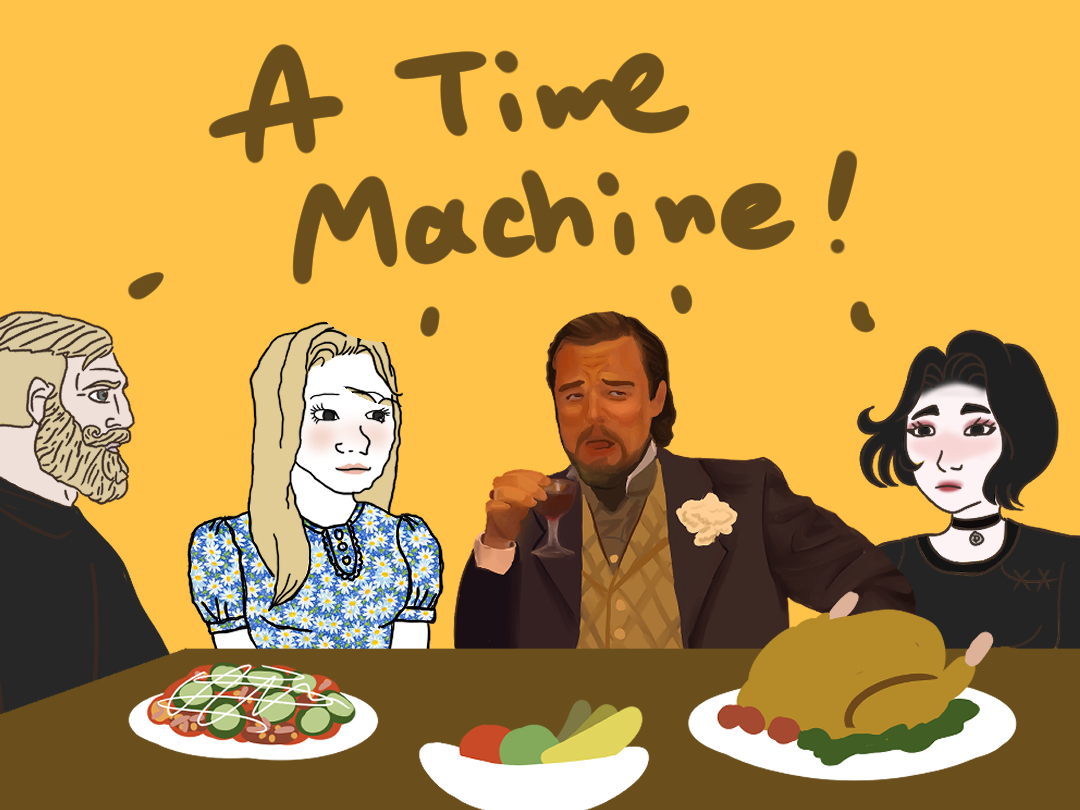
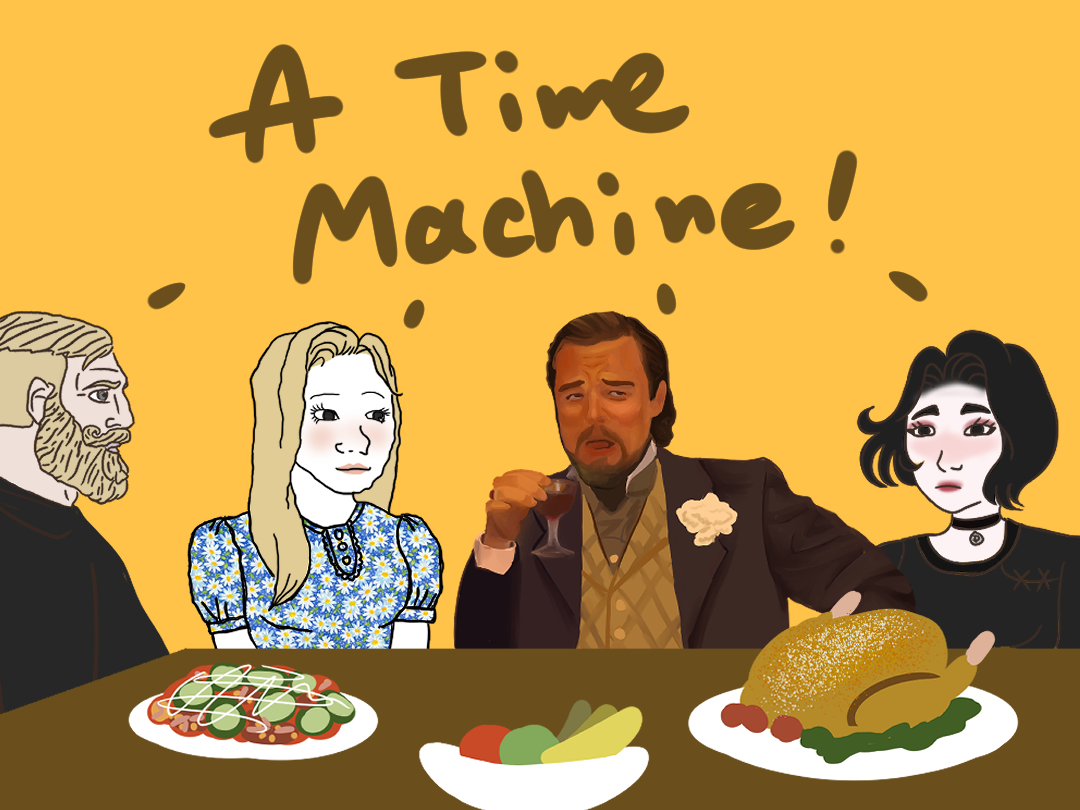
fix side pic

diff --git a/G.I.Joe.html b/G.I.Joe.html
@@ -166,7 +166,7 @@ height="0" width="0" style="display:none;visibility:hidden"></iframe></noscript>
     <div class="backtolist">
         <a href="meme.html"><img src="img/btn_backtomemes.png" alt="memes"></a>
     </div>
-    <div class="draw"><img src="img/for_meme2.png" alt="meme"></div>
+    <div class="draw"><img src="img/for_meme.png" alt="meme"></div>
 </aside>
 
 <footer></footer>

diff --git a/HEYYEYAAEYAAAEYAEYAA.html b/HEYYEYAAEYAAAEYAEYAA.html
@@ -160,7 +160,7 @@ height="0" width="0" style="display:none;visibility:hidden"></iframe></noscript>
     <div class="backtolist">
         <a href="meme.html"><img src="img/btn_backtomemes.png" alt="memes"></a>
     </div>
-    <div class="draw"><img src="img/for_meme2.png" alt="meme"></div>
+    <div class="draw"><img src="img/for_meme.png" alt="meme"></div>
 </aside>
 
 <footer></footer>

diff --git a/Pablo-Escobar-Waiting.html b/Pablo-Escobar-Waiting.html
@@ -170,7 +170,7 @@ height="0" width="0" style="display:none;visibility:hidden"></iframe></noscript>
     <div class="backtolist">
         <a href="meme.html"><img src="img/btn_backtomemes.png" alt="memes"></a>
     </div>
-    <div class="draw"><img src="img/for_meme2.png" alt="meme"></div>
+    <div class="draw"><img src="img/for_meme.png" alt="meme"></div>
 </aside>
 
 <footer></footer>

diff --git a/Philosoraptor.html b/Philosoraptor.html
@@ -165,7 +165,7 @@ height="0" width="0" style="display:none;visibility:hidden"></iframe></noscript>
     <div class="backtolist">
         <a href="meme.html"><img src="img/btn_backtomemes.png" alt="memes"></a>
     </div>
-    <div class="draw"><img src="img/for_meme2.png" alt="meme"></div>
+    <div class="draw"><img src="img/for_meme.png" alt="meme"></div>
 </aside>
 
 <footer></footer>

diff --git a/awkward-look-monkey.html b/awkward-look-monkey.html
@@ -171,7 +171,7 @@ height="0" width="0" style="display:none;visibility:hidden"></iframe></noscript>
     <div class="backtolist">
         <a href="meme.html"><img src="img/btn_backtomemes.png" alt="memes"></a>
     </div>
-    <div class="draw"><img src="img/for_meme2.png" alt="meme"></div>
+    <div class="draw"><img src="img/for_meme.png" alt="meme"></div>
 </aside>
 
 <footer></footer>

diff --git a/hold-up.html b/hold-up.html
@@ -186,7 +186,7 @@ height="0" width="0" style="display:none;visibility:hidden"></iframe></noscript>
     <div class="backtolist">
         <a href="meme.html"><img src="img/btn_backtomemes.png" alt="memes"></a>
     </div>
-    <div class="draw"><img src="img/for_meme2.png" alt="meme"></div>
+    <div class="draw"><img src="img/for_meme.png" alt="meme"></div>
 </aside>
 
 <footer></footer>

diff --git a/kermit.html b/kermit.html
@@ -197,7 +197,7 @@ height="0" width="0" style="display:none;visibility:hidden"></iframe></noscript>
     <div class="backtolist">
         <a href="meme.html"><img src="img/btn_backtomemes.png" alt="memes"></a>
     </div>
-    <div class="draw"><img src="img/for_meme2.png" alt="meme"></div>
+    <div class="draw"><img src="img/for_meme.png" alt="meme"></div>
 </aside>
 
 <footer></footer>

diff --git a/math-lady.html b/math-lady.html
@@ -173,7 +173,7 @@ height="0" width="0" style="display:none;visibility:hidden"></iframe></noscript>
     <div class="backtolist">
         <a href="meme.html"><img src="img/btn_backtomemes.png" alt="memes"></a>
     </div>
-    <div class="draw"><img src="img/for_meme2.png" alt="meme"></div>
+    <div class="draw"><img src="img/for_meme.png" alt="meme"></div>
 </aside>
 
 <footer></footer>

diff --git a/trumpet-boy.html b/trumpet-boy.html
@@ -161,7 +161,7 @@ height="0" width="0" style="display:none;visibility:hidden"></iframe></noscript>
     <div class="backtolist">
         <a href="meme.html"><img src="img/btn_backtomemes.png" alt="memes"></a>
     </div>
-    <div class="draw"><img src="img/for_meme2.png" alt="meme"></div>
+    <div class="draw"><img src="img/for_meme.png" alt="meme"></div>
 </aside>
 
 <footer></footer>
